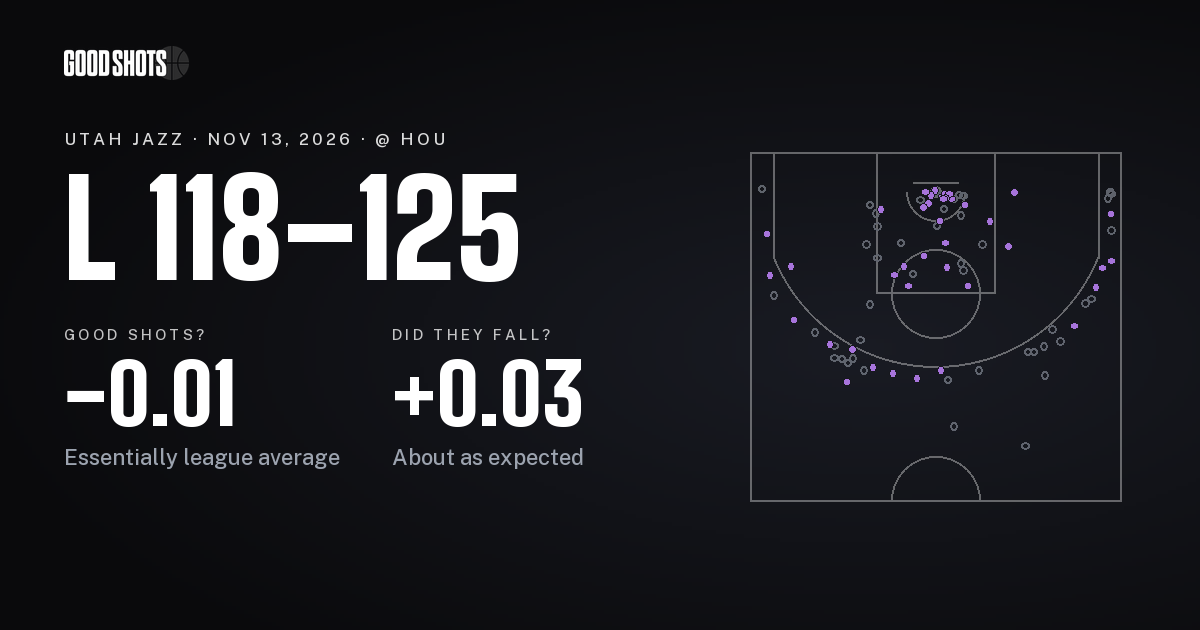
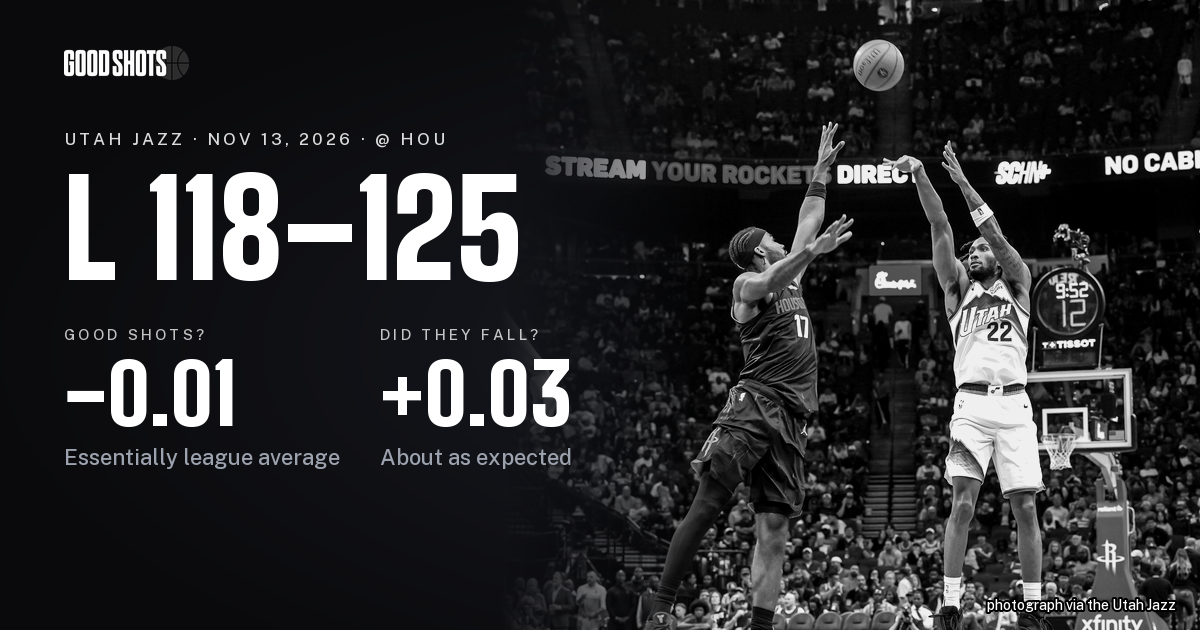
Give the Houston report card its game photograph
Darryn Peterson releasing a jumper over a Houston defender's raised hands,
the header of the Jazz's 11-13 NBA Cup recap (ELD08235), credited
"photograph via the Utah Jazz" from an empty record. The game is verified
by the venue and the clock: the Rockets' boards put it in Houston, the
Jazz's only game there so far, and the scoreboard behind Peterson reads
9:52, where the play-by-play has his made three at 9:51 of the third, his
only attempt within seconds of 9:52 in any period. The night's other
frame names Getty and is not a candidate. Focal points checked at the
375px poster and the wide panel with its left fade; the share card
redrawn with the photograph.

diff --git a/src/teams/gamePhotos.ts b/src/teams/gamePhotos.ts
@@ -116,6 +116,13 @@ export const GAME_PHOTOS: Readonly<Record<string, GamePhoto>> = {
     imagePosition: '40% 40%',
     imagePositionWide: '40% 30%',
   },
+  '2026-11-13-hou': {
+    imagePath: 'img/games/2026-11-13-hou.jpg',
+    imageAlt: 'Darryn Peterson releases a jumper over a Houston defender’s raised hands, in the white Jazz number 22 jersey',
+    imageCredit: 'photograph via the Utah Jazz',
+    imagePosition: '52% 40%',
+    imagePositionWide: '30% 40%',
+  },
 }
 
 export function gamePhotoOf(slug: string): GamePhoto | undefined {

diff --git a/docs/image-credits.md b/docs/image-credits.md
@@ -436,3 +436,23 @@ empty credit and the file no embedded metadata, so it is credited
   `.../2026/11/DSC03877.jpg` (Markkanen, 23, white, shooting), headed the
   pre-game Markkanen injury update and was passed over: Markkanen is not
   in the 11-11 box score.
+
+The photo finder listed one team frame for 11-13 after the game-night
+session that published it (2026-11-13), picked 2026-11-14. Pulled
+2026-11-14 by `game:photo` and retained in
+`data/game-sources/2026-11-13-hou.jpg`; the record carries an empty credit
+and the file no embedded metadata, so it is credited "photograph via the
+Utah Jazz". The finder's only other frame for the night, `2304192198.jpg`,
+names Getty on its record and is not a candidate.
+
+- `public/img/games/2026-11-13-hou.jpg`, Darryn Peterson (22, white)
+  releasing a jumper over the raised hands of Houston's 17, a second
+  Houston player at the left edge: the header of the Jazz's NBA Cup
+  recap, `cdn.nba.com/teams/uploads/sites/1610612762/2026/11/ELD08235.jpg`
+  (4155x2765). **The game is verified by the venue and the clock**: the
+  Rockets' boards and stanchion put it in Houston, Peterson puts it in
+  2026-27, and 11-13 is the Jazz's only game at Houston so far (no
+  Houston preseason game: Denver, San Antonio, Phoenix). The game clock
+  behind him reads 9:52 over a 12 on the shot clock, and Peterson's only
+  field goal attempt within seconds of 9:52 in any period is his made
+  25-foot three at 9:51 of the third quarter.
